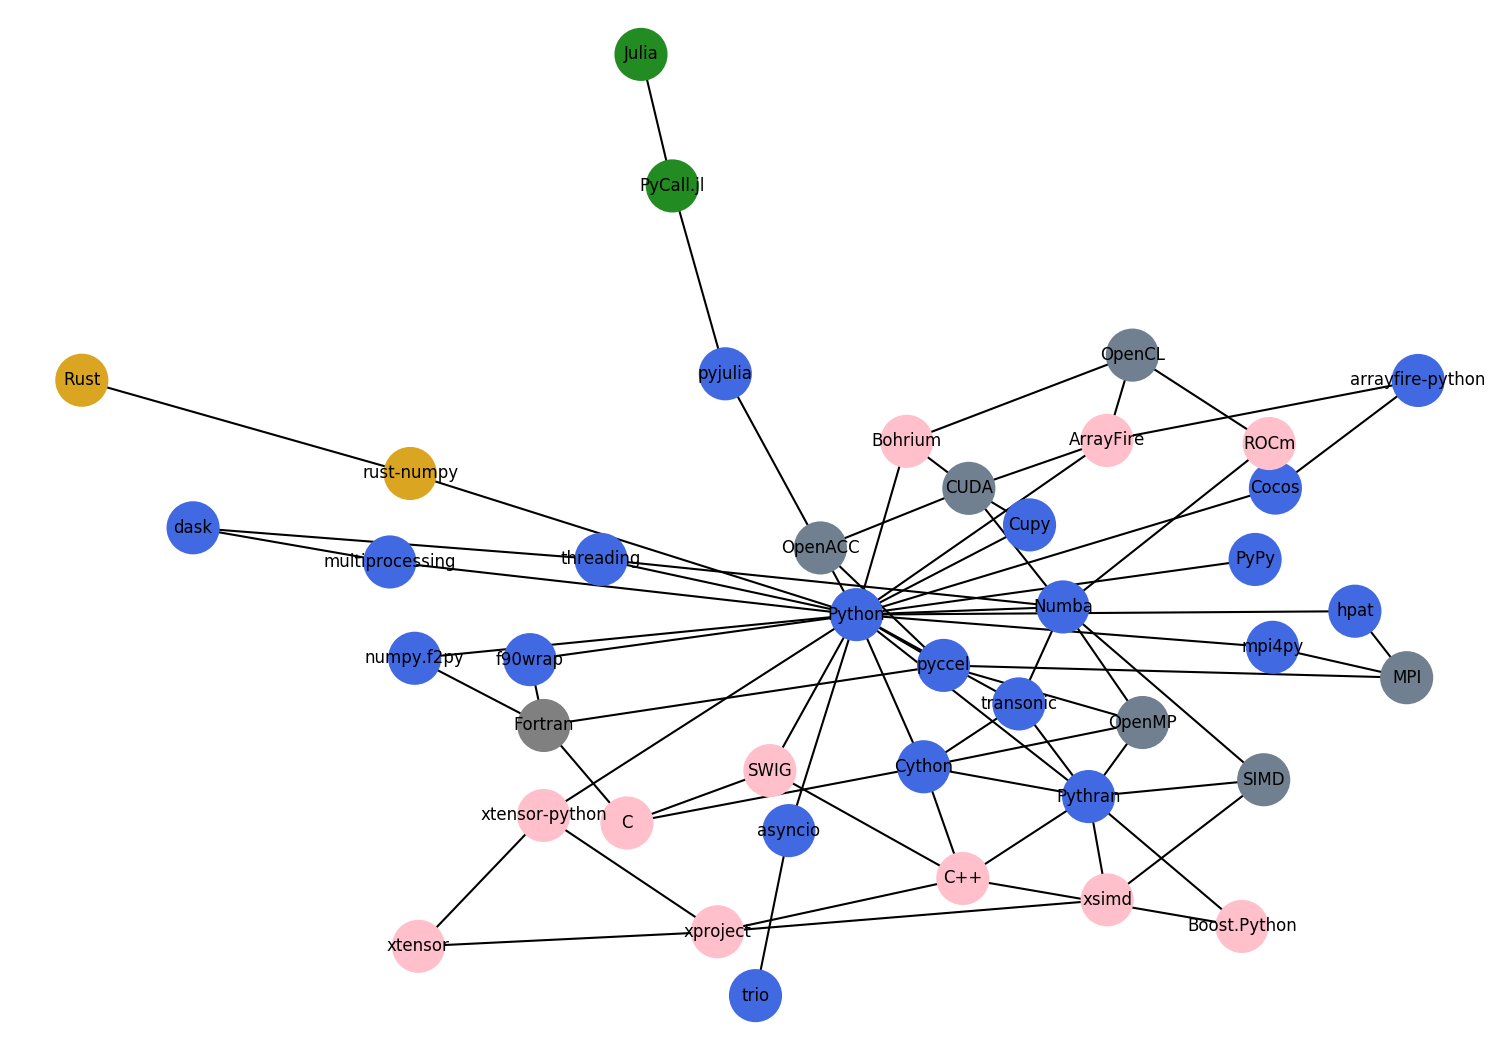
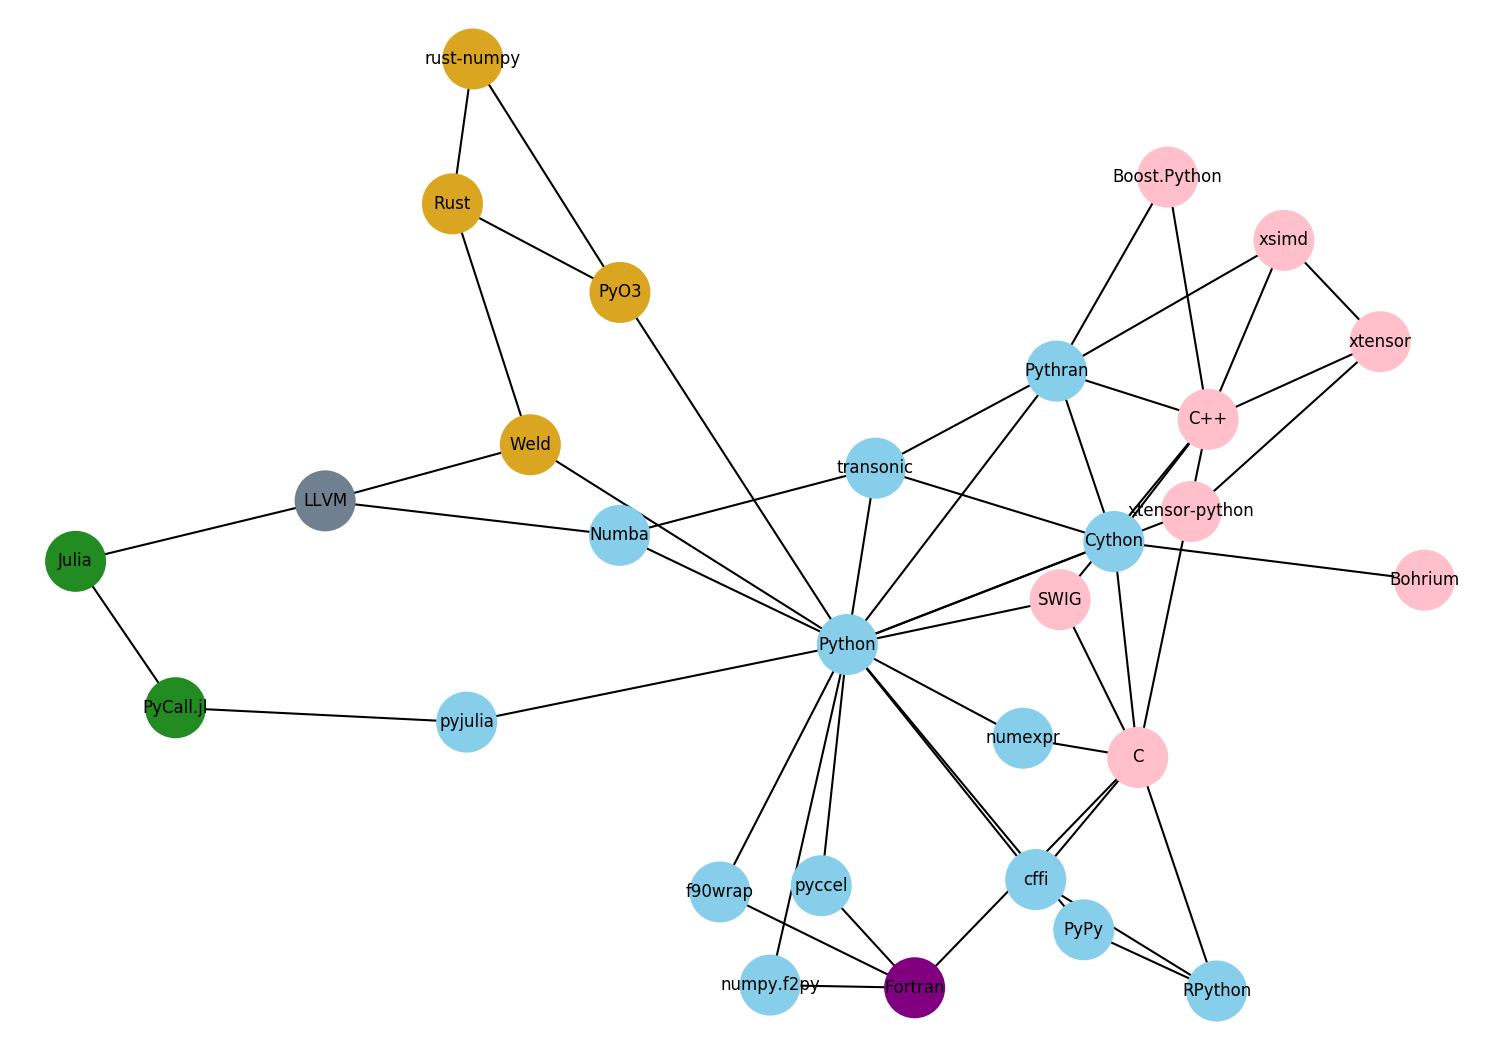
Improved draw.io figures

diff --git a/python-performance-landscape/plot.py b/python-performance-landscape/plot.py
@@ -3,7 +3,7 @@ import networkx as nx
 from networkx.readwrite.adjlist import read_adjlist
 
 colors = {
-    "royalblue": (
+    "skyblue": (
         "Python",
         "Cython",
         "Pythran",
@@ -25,6 +25,9 @@ colors = {
         "transonic",
         "arrayfire-python",
         "pyccel",
+        "cffi",
+        "numexpr",
+        "RPython"
     ),
     "pink": (
         "C",
@@ -39,10 +42,10 @@ colors = {
         "ArrayFire",
         "ROCm",
     ),
-    "goldenrod": ("Rust", "rust-numpy"),
-    "grey": ("Fortran",),
+    "goldenrod": ("Rust", "rust-numpy", "PyO3", "Weld"),
+    "purple": ("Fortran",),
     "forestgreen": ("Julia", "PyCall.jl"),
-    "slategrey": ("CUDA", "OpenCL", "OpenMP", "OpenACC", "MPI", "SIMD"),
+    "slategrey": ("CUDA", "OpenCL", "OpenMP", "OpenACC", "MPI", "SIMD", "LLVM",),
 }
 
 G = read_adjlist("graph.txt")
@@ -55,7 +58,7 @@ for node in G.nodes():
     G.node[node]["value"] = color[0]
 
 type_plot = "classic"
-#  type_plot = "circos"
+#  type_plot = "nxviz"
 
 plt.figure(figsize=(10,7), dpi=150)
 if type_plot == "classic":
@@ -65,10 +68,10 @@ if type_plot == "classic":
         with_labels=True,
         node_shape="o",
         node_color=node_color,
-        node_size=600,
+        node_size=800,
         font_size=8
     )
-elif type_plot == "circos":
+elif type_plot == "nxviz":
     from nxviz.plots import CircosPlot as Plot
 
     c = Plot(
@@ -82,3 +85,21 @@ elif type_plot == "circos":
 plt.tight_layout()
 plt.savefig("graph.png")
 plt.show()
+
+try:
+    import pygraphviz
+    from networkx.drawing.nx_agraph import write_dot
+    print("using package pygraphviz")
+except ImportError:
+    try:
+        import pydot
+        from networkx.drawing.nx_pydot import write_dot
+        print("using package pydot")
+    except ImportError:
+        print()
+        print("Both pygraphviz and pydot were not found ")
+        print("see  https://networkx.github.io/documentation/latest/reference/drawing.html")
+        print()
+        raise
+
+write_dot(G, "graph.dot")
